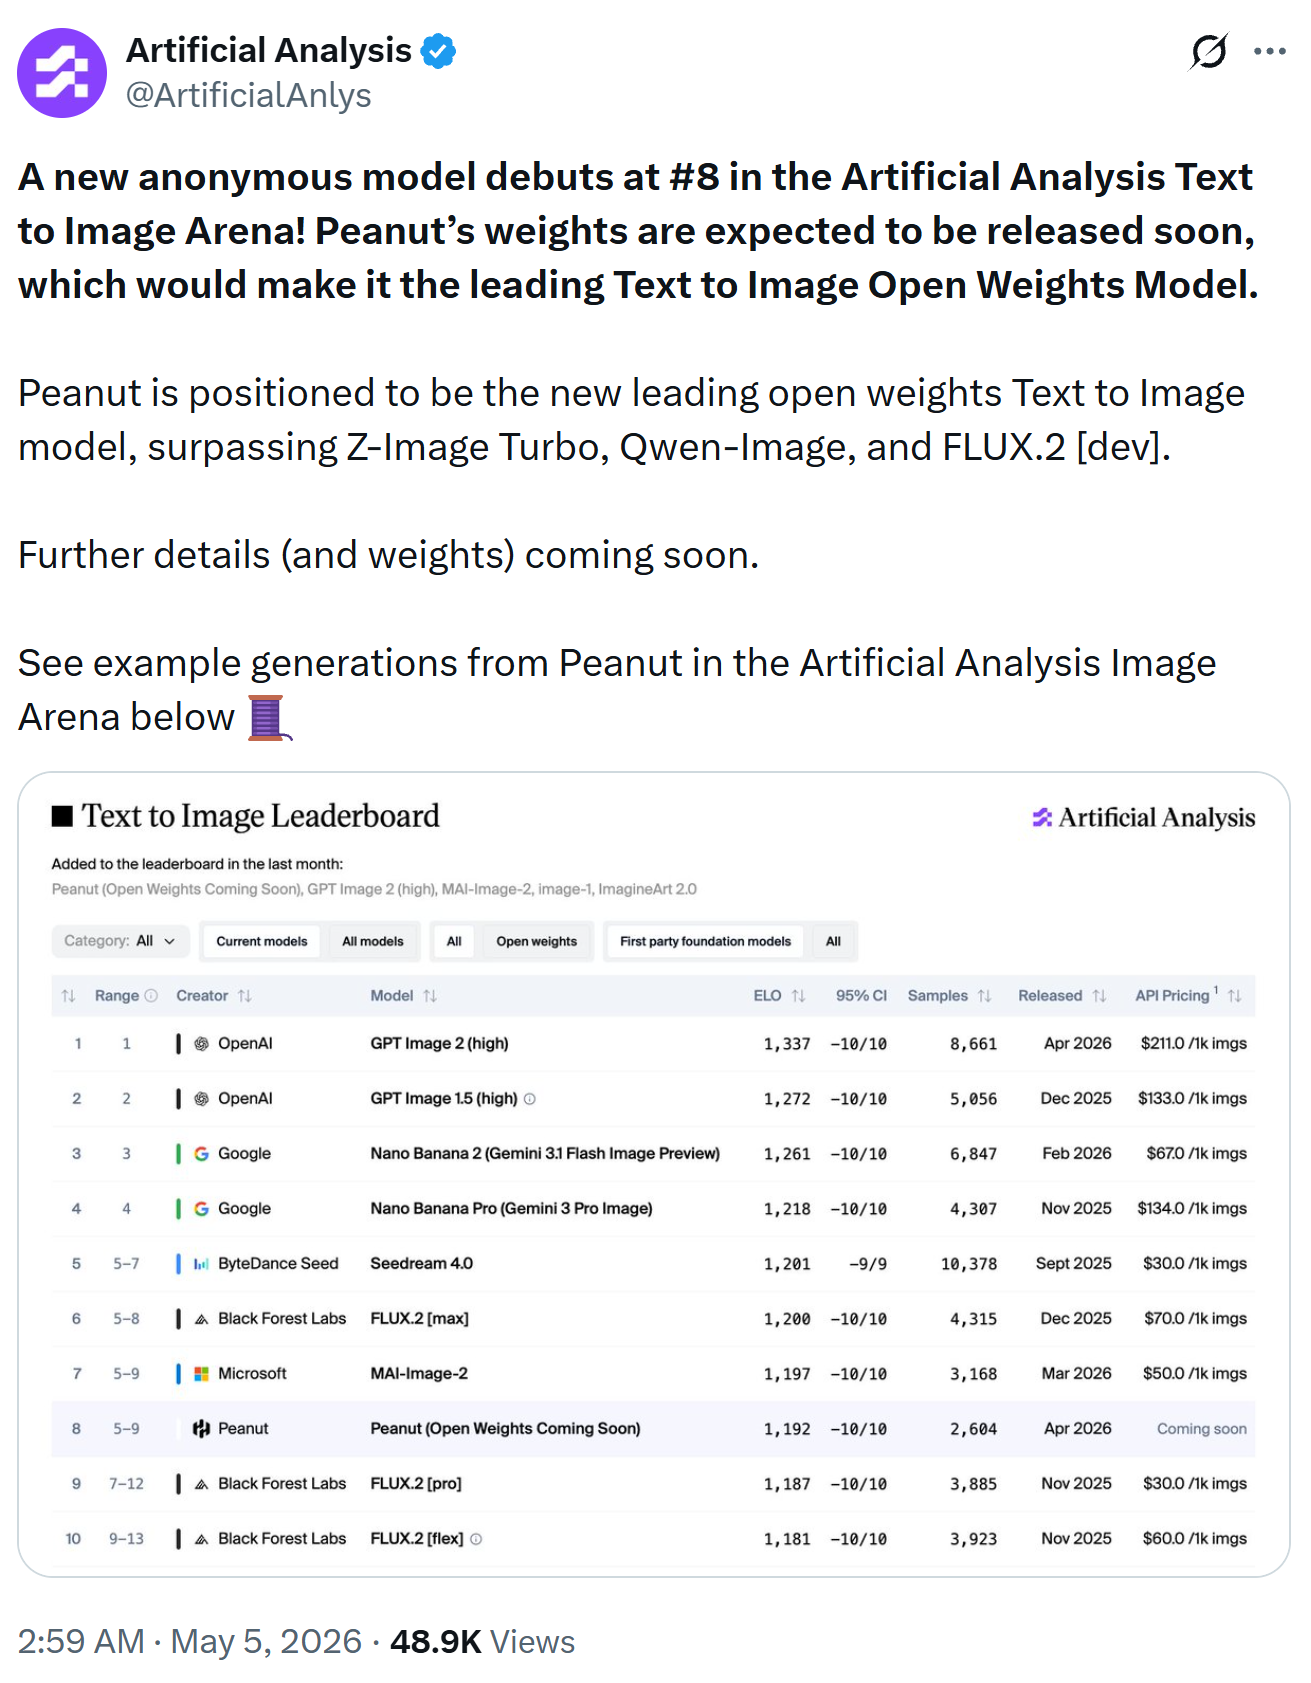
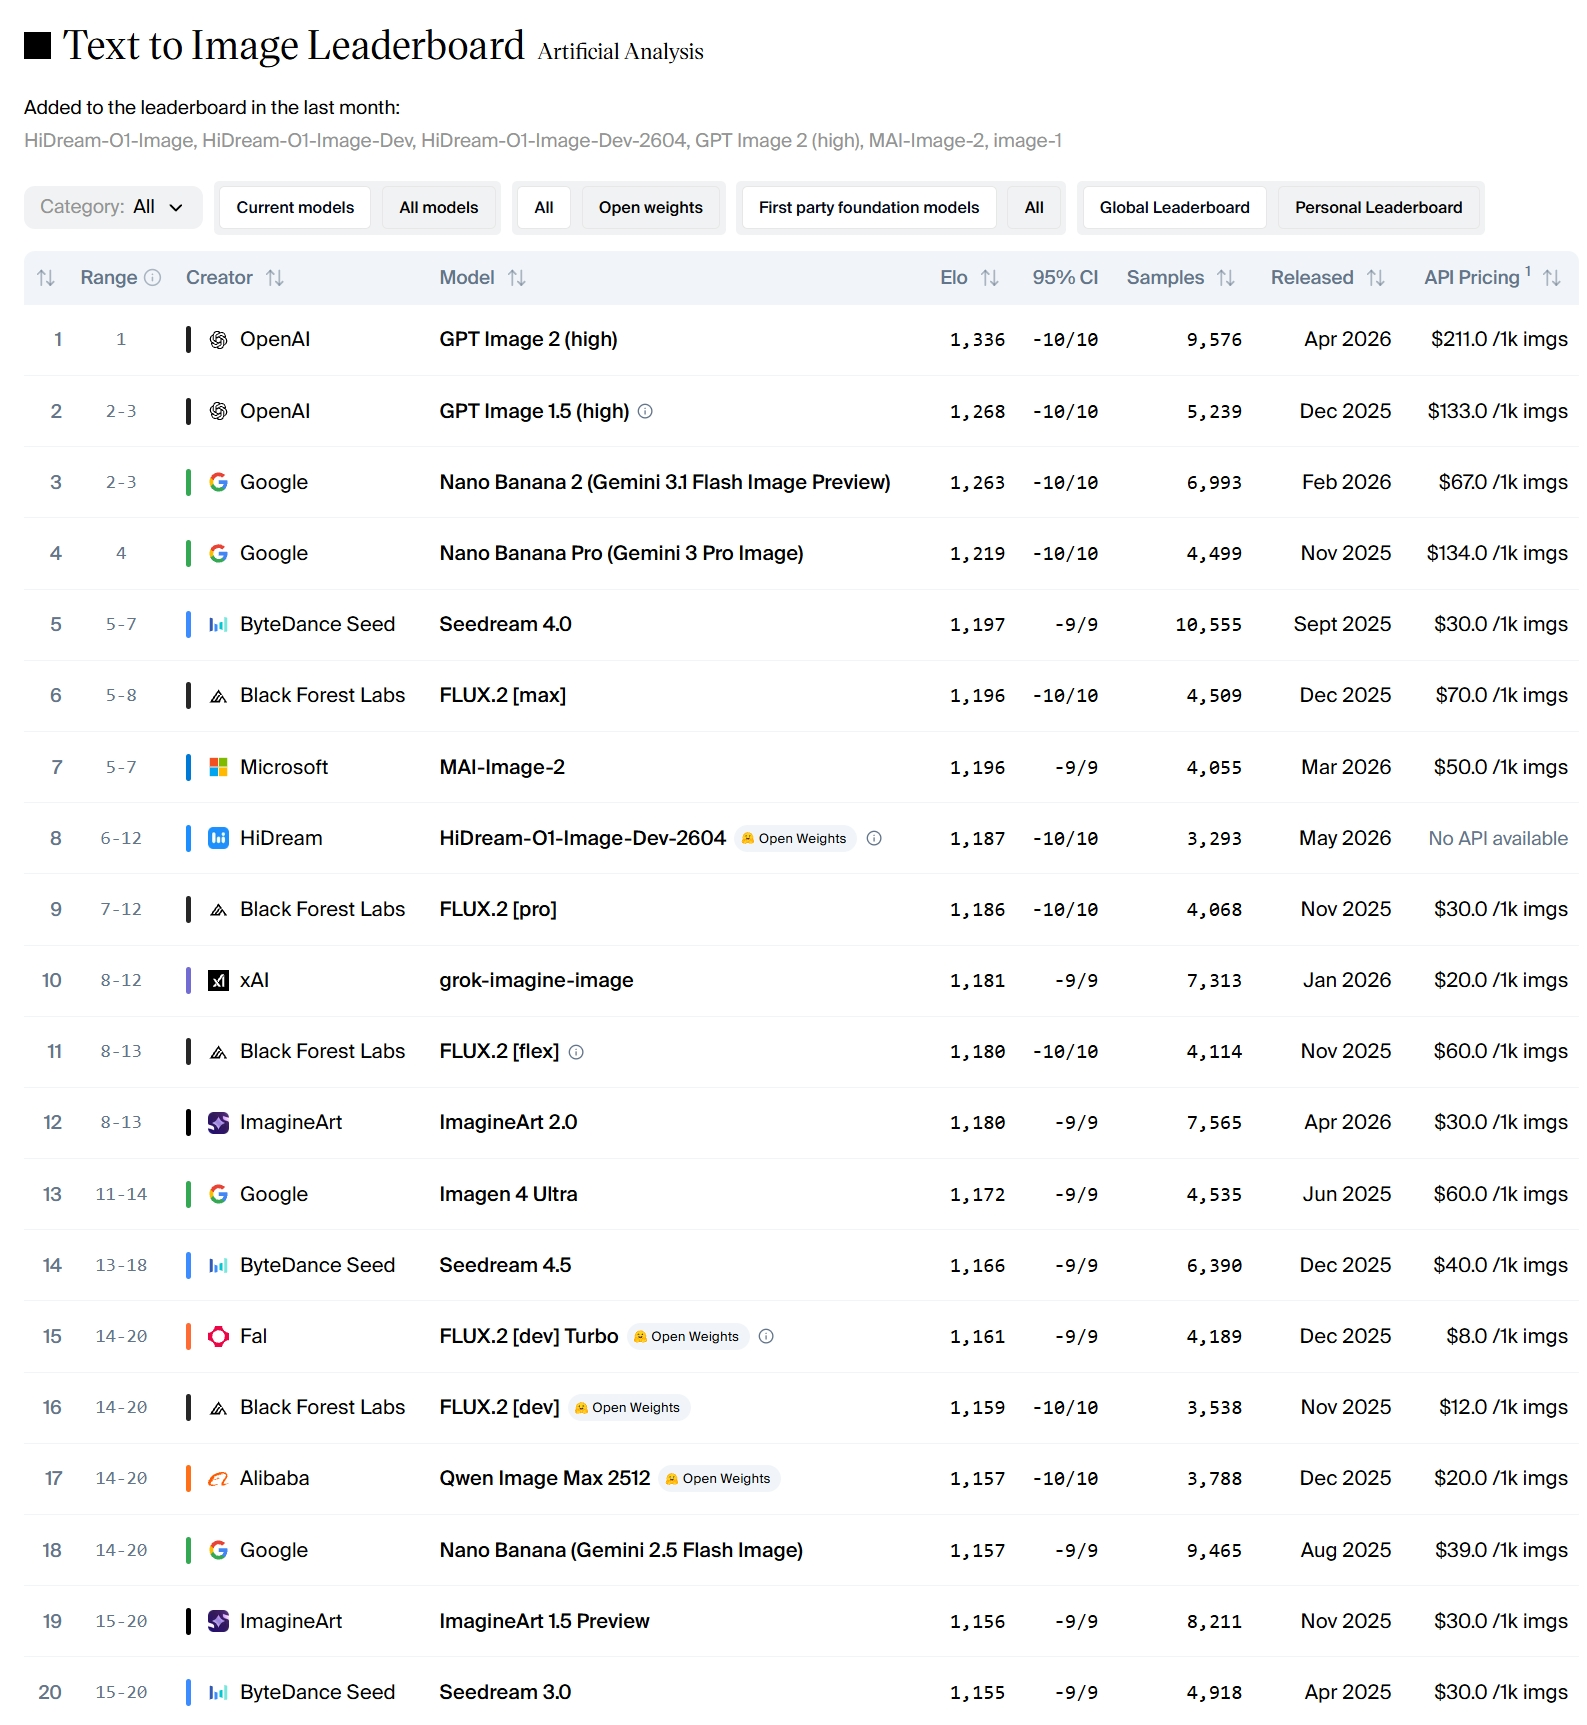
update 2604 readme

diff --git a/README.md b/README.md
@@ -3,7 +3,7 @@
 HiDream-O1-Image is a natively unified image generative foundation model built on a Pixel-level Unified Transformer (UiT) without external VAEs or disjoint text encoders, which natively encodes raw pixels, text, and task-specific conditions in a single shared token space — supporting text-to-image, image editing, and subject-driven personalization at up to 2,048 × 2,048.
 
 ## Project Updates
-- 🛠️ **May 13, 2026:** Inference & pipeline updates — accelerated IP inference; the IP pipeline now supports **layout** and **skeleton** conditioning; updated the Dev editing scheduler. For editing tasks we recommend using the **full** model. PyTorch 2.9.x is not recommended due to the [issue](https://github.com/QwenLM/Qwen3-VL/issues/1811)
+- 🛠️ **May 13, 2026:** Inference & pipeline updates — accelerated IP inference; the IP pipeline now supports **layout** and **skeleton** conditioning; updated the Dev editing scheduler. For editing tasks we recommend using the **full** model. PyTorch 2.9.x is not recommended due to the [issue](https://github.com/QwenLM/Qwen3-VL/issues/1811).
 - 🤗 **May 10, 2026:** Try **HiDream-O1-Image** online on Hugging Face Spaces — [🤗 HiDream-O1-Image](https://huggingface.co/spaces/HiDream-ai/HiDream-O1-Image) and [🤗 HiDream-O1-Image-Dev](https://huggingface.co/spaces/HiDream-ai/HiDream-O1-Image-Dev).
 - 📕 **May 10, 2026:** Our **technical report** is now available — [📑 HiDream-O1-Image.pdf](assets/HiDream-O1-Image.pdf).
 - 🚀 **May 8, 2026:** We've open-sourced **HiDream-O1-Image (8B)**, including both the undistilled and distilled Dev variants, together with the Reasoning-Driven Prompt Agent.
@@ -12,7 +12,7 @@ HiDream-O1-Image is a natively unified image generative foundation model built o
   <video src="https://github.com/user-attachments/assets/cbbdb816-f050-4685-aa51-4741479a0e5c" width="70%" poster=""> </video>
 </div>
 
-> **HiDream-O1-Image (codename: Peanut) debuts at #8 in the Artificial Analysis Text to Image Arena, which is positioned to be the new leading open weights Text to Image model (2026-5-5).**
+> **HiDream-O1-Image-Dev-2604 debuts at #8 in the Artificial Analysis Text to Image Arena, which is positioned to be the new leading open weights Text to Image model (2026-5-5).**
 <p align="center">
   <img src="assets/leaderboard.png" alt="Artificial Analysis Text to Image Arena" width="100%"/>
   <br><sub><b>Artificial Analysis Text to Image Arena</b> at up to 2,048 × 2,048.</sub>
@@ -47,10 +47,13 @@ HiDream-O1-Image is a natively unified image generative foundation model built o
 
 | Name | Script | Inference Steps | HuggingFace Repo |
 | :--- | :--- | :---: | :--- |
-| HiDream-O1-Image | `inference.py` | 50 | [🤗 HiDream-O1-Image](https://huggingface.co/HiDream-ai/HiDream-O1-Image) |
-| HiDream-O1-Image-Dev | `inference.py` | 28 | [🤗 HiDream-O1-Image-Dev](https://huggingface.co/HiDream-ai/HiDream-O1-Image-Dev) |
-| Prompt Agent | `prompt_agent.py` | — | [🤗 google/gemma-4-31B-it](https://huggingface.co/google/gemma-4-31B-it) |
-| Web Demo | `app.py` | — | — |
+| HiDream-O1-Image | [`inference.py`](./inference.py) | 50 | [🤗 HiDream-O1-Image](https://huggingface.co/HiDream-ai/HiDream-O1-Image) |
+| HiDream-O1-Image-Dev | [`inference.py`](./inference.py) | 28 | [🤗 HiDream-O1-Image-Dev](https://huggingface.co/HiDream-ai/HiDream-O1-Image-Dev) |
+| Prompt Agent | [`prompt_agent.py`](./prompt_agent.py) | — | [🤗 google/gemma-4-31B-it](https://huggingface.co/google/gemma-4-31B-it) |
+| HiDream-O1-Image-Dev-2604 | [`inference.py` (dev branch)](https://github.com/HiDream-ai/HiDream-O1-Image/blob/dev/inference.py) | 28 | [🤗 HiDream-O1-Image-Dev-2604](https://huggingface.co/HiDream-ai/HiDream-O1-Image-Dev-2604) |
+| Web Demo | [`app.py`](./app.py) | — | — |
+
+> **Note:** `HiDream-O1-Image-Dev-2604` is a **text-to-image specific** model. To use it, please switch to the [`dev` branch](https://github.com/HiDream-ai/HiDream-O1-Image/tree/dev) of this repository.
 
 ## Evaluation
 
@@ -187,7 +190,7 @@ cd HiDream-O1-Image
 pip install -r requirements.txt
 ```
 
-> **Note on `flash-attn`.** We highly recommend installing [`flash-attn`](https://github.com/Dao-AILab/flash-attention) for optimized attention computation. **If you do not (or cannot) install `flash-attn`, you must edit `models/pipeline.py` line 291 and change `"use_flash_attn": True` to `"use_flash_attn": False`** — otherwise inference will fail to import the kernel.
+> **Note on `flash-attn`.** We highly recommend installing [`flash-attn`](https://github.com/Dao-AILab/flash-attention) for optimized attention computation. **If you do not (or cannot) install `flash-attn`, you must edit `models/pipeline.py` line 341 and change `"use_flash_attn": True` to `"use_flash_attn": False`** — otherwise inference will fail to import the kernel.
 
 ## Reasoning-Driven Prompt Agent
 
@@ -311,14 +314,14 @@ For **editing** tasks (exactly one reference image), the Dev model defaults to t
   - `dev`: 28 steps, guidance scale `0.0`, shift `1.0`, flash scheduler with predefined timesteps. For editing tasks (exactly one reference image), the default scheduler is `flow_match` instead — see `--editing_scheduler`.
 - `--seed`: Random seed (default: `32`).
 - `--guidance_scale`: Guidance scale (default: `5.0`). Only effective when `--model_type` is `full`.
-- `--noise_scale_start`, `--noise_scale_end`: Control the scale of the noise injected by the scheduler at each denoising step; the per-step scale linearly interpolates from `noise_scale_start` (first step) to `noise_scale_end` (last step). See `models/pipeline.py:262` and `models/pipeline.py:273`. Defaults: `7.5`, `7.5`.
-- `--noise_clip_std`: Per-step clipping threshold (in units of the injected noise's standard deviation) applied to the noise added during scheduler stepping. See `models/flash_scheduler.py:348-350`. Default: `2.5`.
+- `--noise_scale_start`, `--noise_scale_end`: Control the scale of the noise injected by the scheduler at each denoising step; the per-step scale linearly interpolates from `noise_scale_start` (first step) to `noise_scale_end` (last step). See `models/pipeline.py:313` (initial noise) and `models/pipeline.py:323-326` (per-step linear interpolation). Defaults: `7.5`, `7.5`.
+- `--noise_clip_std`: Per-step clipping threshold (in units of the injected noise's standard deviation) applied to the noise added during scheduler stepping. See `models/flash_scheduler.py:350-354`. Default: `2.5`.
 - `--editing_scheduler`: Scheduler to use for editing tasks (exactly one reference image) when `--model_type dev`. Choices: `flow_match` (default) or `flash`. Ignored for the `full` model and for non-editing tasks.
 - `--keep_original_aspect`: When exactly one reference image is provided, resize it with `max_size=2048` and use its dimensions for the target image (preserves the reference's aspect ratio) if `True`. 
 
 ## Web Demo
 
-`app.py` is a self-contained Flask web application that exposes all generation modes. It also integrates the Reasoning-Driven Prompt Agent.
+`app.py` is a single-file Flask web UI (with HTML / CSS / JS embedded inline) that exposes all generation modes. It also integrates the Reasoning-Driven Prompt Agent.
 
 ### Starting the server
 
@@ -340,11 +343,20 @@ Then open `http://localhost:7860` in your browser.
 | `--host` | `0.0.0.0` | Bind address for the Flask server. |
 | `--port` | `7860` | Port for the Flask server. |
 
-All four arguments can also be set via environment variables (see `.env.example`): `HIDREAM_MODEL_PATH`, `HIDREAM_MODEL_TYPE`, `HIDREAM_HOST`, and `HIDREAM_PORT`.
+All four CLI arguments above can also be set via environment variables (see `.env.example`): `HIDREAM_MODEL_PATH`, `HIDREAM_MODEL_TYPE`, `HIDREAM_HOST`, and `HIDREAM_PORT`.
+
+The Prompt Agent panel in the Web Demo reads additional environment variables from `.env`:
+
+| Env Var | Used by | Description |
+| :--- | :--- | :--- |
+| `HIDREAM_AGENT_MODEL` | Local · Gemma backend | Path or HF repo id of the local Gemma weights. |
+| `OPENAI_BASE_URL` | OpenAI-compatible API backend | Default base URL pre-filled in the UI. |
+| `OPENAI_API_KEY` | OpenAI-compatible API backend | Default API key pre-filled in the UI. |
+| `OPENAI_MODEL` | OpenAI-compatible API backend | Default model name pre-filled in the UI. |
 
 ### Prompt Agent in the UI
 
-The sidebar contains a Prompt Agent panel that calls the same Reasoning-Driven Prompt Agent used by `prompt_agent.py`.  Select either the *OpenAI-compatible API* backend (any endpoint, key, and model name) or the *Local · Gemma* backend (set `HIDREAM_AGENT_MODEL` in `.env` or the environment to point to your local Gemma-4-31B-it weights).
+The sidebar contains a Prompt Agent panel that calls the same Reasoning-Driven Prompt Agent used by `prompt_agent.py`. Select either the *OpenAI-compatible API* backend (any endpoint, key, and model name) or the *Local · Gemma* backend (set `HIDREAM_AGENT_MODEL` in `.env` or the environment to point to your local Gemma-4-31B-it weights).
 
 ### Editing Scheduler (Dev model only)
 